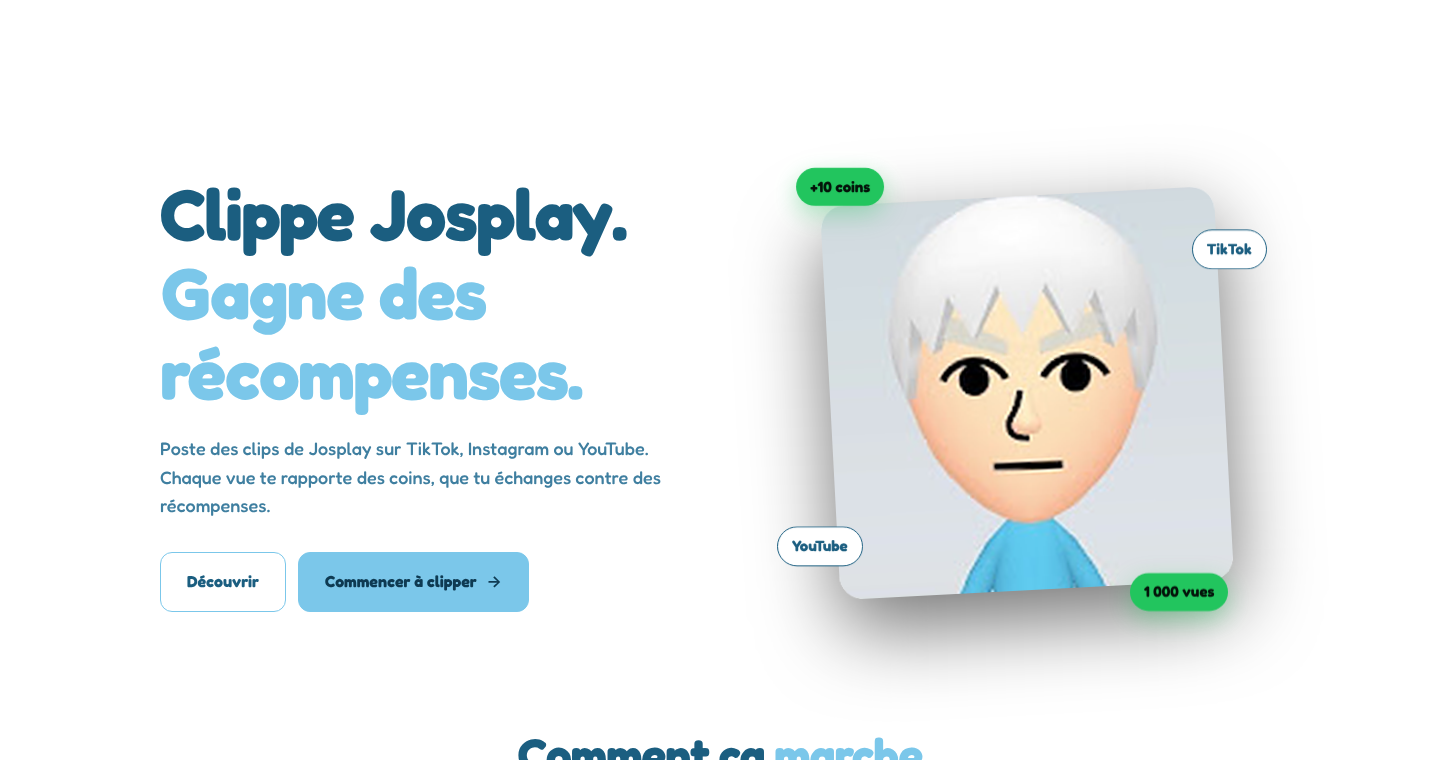
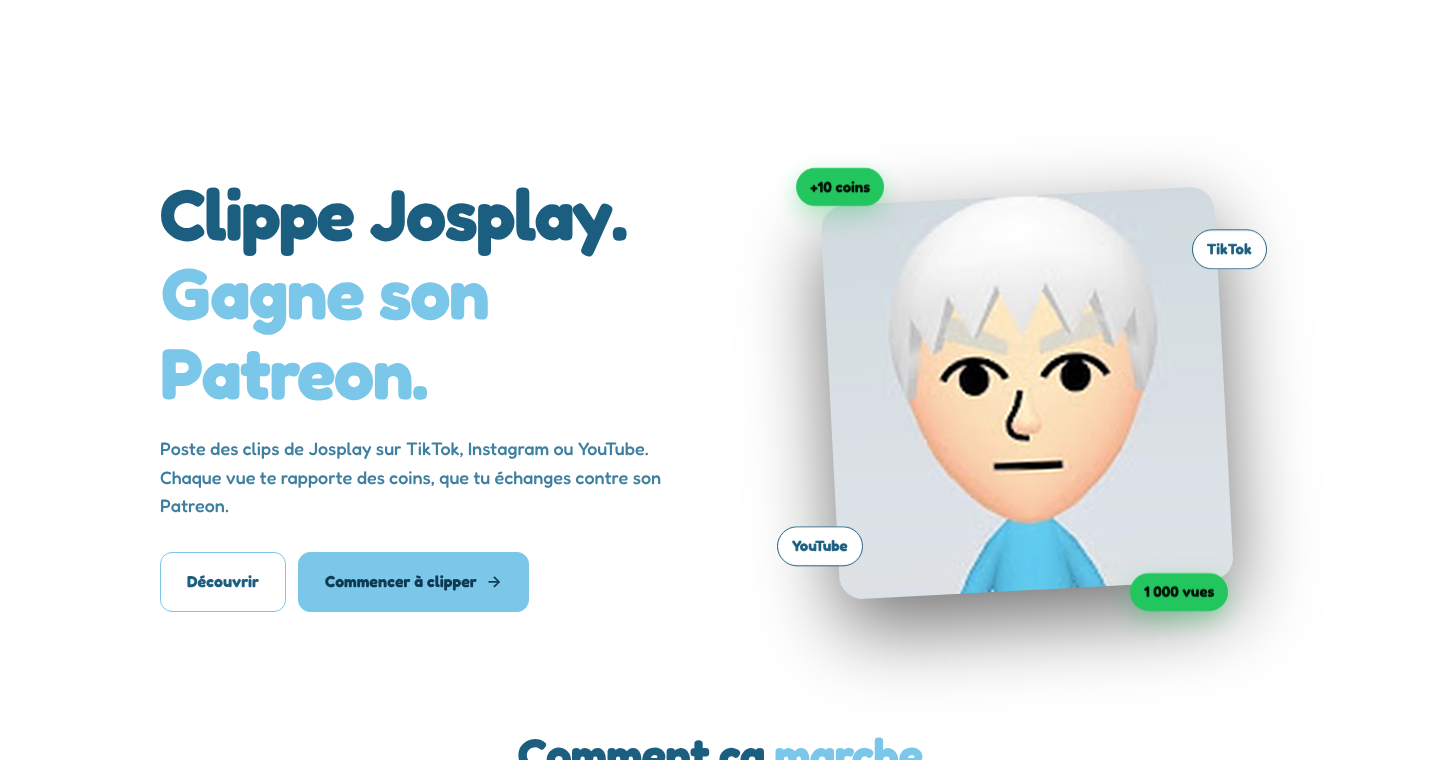
Maquette Josplay : boutique remplie (Patreon, membre YouTube, prime 1 M de vues)
Claude-Session: https://claude.ai/code/session_015AjDyzzxRyXq6uqSZmCAAf

diff --git a/maquette-josplay.html b/maquette-josplay.html
@@ -327,7 +327,7 @@
 <footer id="footer"></footer>
 <nav class="tabbar" id="tabbar"></nav>
 
-<script>window.__DEMO__ = {"creator":{"pointsPer1000":10,"levels":[{"name":"Débutant","emoji":"🌱","min":0},{"name":"Confirmé","emoji":"⚡","min":10000},{"name":"Pro","emoji":"🔥","min":100000},{"name":"Élite","emoji":"💎","min":1000000}],"statuses":{"pending":"En attente","delivered":"Livré ✅","refunded":"Remboursé"},"youtube":"","id":"josplay","programName":"JOSPLAY CLIPPING","creatorName":"Josplay","theme":"sober","colors":{"bg":"#FFFFFF","card":"#FFFFFF","border":"#7BC7EA","text":"#1B5E80","muted":"#3F7FA0","accent":"#7BC7EA","accentInk":"#0E3A52","highlight":"#7BC7EA"},"font":"Fredoka","logoText":"josplay","rewardAccount":{"kind":"email","title":"Ta récompense","label":"Ton e-mail","placeholder":"ton@email.com","badge":"E-mail relié","deliveryHint":"Ta récompense est envoyée sur cet e-mail."},"reward":null,"texts":{"heroTitle":"Clippe Josplay. **Gagne des récompenses.**","heroText":"Poste des clips de Josplay sur TikTok, Instagram ou YouTube. Chaque vue te rapporte des coins, que tu échanges contre des récompenses.","heroCta":"Commencer à clipper","steps":[{"title":"Crée ton clip","text":"Un passage de Josplay qui mérite d’être vu."},{"title":"Poste-le","text":"Sur TikTok, Instagram ou YouTube."},{"title":"Gagne des coins","text":"10 coins pour 1 000 vues, tous comptes confondus."},{"title":"Échange","text":"Tes coins contre des récompenses."}],"shopTitle":"Récompenses","shopText":"Échange tes coins contre des récompenses.","clipTitle":"Clipper","clipText":"Poste des clips de Josplay sur TikTok, Instagram ou YouTube. Tes vues sont comptées chaque nuit.","rankingText":"Les clippeurs qui ont fait le plus de vues ces 7 derniers jours.","footer":"Josplay Clipping","deliveredDm":"✅ Ta récompense **{item}** a été livrée !","dmFooter":"Josplay Clipping","faq":[{"q":"Comment je gagne des coins ?","a":"Tu postes des clips de Josplay sur TikTok, Instagram ou YouTube. 1 000 vues = 10 coins, tous comptes confondus."},{"q":"Comment je relie mes comptes ?","a":"Sur le Discord, clique sur « S’inscrire » et connecte tes comptes TikTok, Instagram et YouTube."},{"q":"Quand mes vues sont-elles comptées ?","a":"Chaque nuit. Seules les vues faites après ton inscription rapportent des coins."},{"q":"Il faut combien d’abonnés ?","a":"Aucun minimum. Un compte qui démarre peut gagner des coins dès son premier clip."}],"finalTitle":"Prêt à **clipper** ?","finalText":"Connecte-toi avec Discord, relie tes comptes et commence à gagner des coins dès ton prochain clip."},"images":{}},"programName":"JOSPLAY CLIPPING","pointsPer1000":10,"discordInviteUrl":null,"clips":[],"featured":[],"items":[],"leaderboard":[{"rank":1,"name":"kenzo.clips","avatar":null,"views":184000,"coins":1840},{"rank":2,"name":"lea_edits","avatar":null,"views":142500,"coins":1425},{"rank":3,"name":"nathan.cut","avatar":null,"views":97300,"coins":973},{"rank":4,"name":"ines.shorts","avatar":null,"views":71800,"coins":718},{"rank":5,"name":"yanis_clipz","avatar":null,"views":52400,"coins":524},{"rank":6,"name":"sarah.mp4","avatar":null,"views":38900,"coins":389},{"rank":7,"name":"tom.reels","avatar":null,"views":21600,"coins":216},{"rank":8,"name":"maelle_cut","avatar":null,"views":12300,"coins":123}]};</script>
+<script>window.__DEMO__ = {"creator":{"pointsPer1000":10,"levels":[{"name":"Débutant","emoji":"🌱","min":0},{"name":"Confirmé","emoji":"⚡","min":10000},{"name":"Pro","emoji":"🔥","min":100000},{"name":"Élite","emoji":"💎","min":1000000}],"statuses":{"pending":"En attente","delivered":"Livré ✅","refunded":"Remboursé"},"youtube":"","id":"josplay","programName":"JOSPLAY CLIPPING","creatorName":"Josplay","theme":"sober","colors":{"bg":"#FFFFFF","card":"#FFFFFF","border":"#7BC7EA","text":"#1B5E80","muted":"#3F7FA0","accent":"#7BC7EA","accentInk":"#0E3A52","highlight":"#7BC7EA"},"font":"Fredoka","logoText":"josplay","rewardAccount":{"kind":"email","title":"Ta récompense","label":"Ton e-mail","placeholder":"ton@email.com","badge":"E-mail relié","deliveryHint":"Ta récompense est envoyée sur cet e-mail."},"reward":{"name":"1 mois de Patreon","description":"Accès aux replays de Josplay sur son Patreon. Les mois s’additionnent.","price":10000,"ref":"patreon-1m","url":"#","linkLabel":"Voir le Patreon"},"texts":{"heroTitle":"Clippe Josplay. **Gagne son Patreon.**","heroText":"Poste des clips de Josplay sur TikTok, Instagram ou YouTube. Chaque vue te rapporte des coins, que tu échanges contre son Patreon.","heroCta":"Commencer à clipper","steps":[{"title":"Crée ton clip","text":"Un passage de Josplay qui mérite d’être vu."},{"title":"Poste-le","text":"Sur TikTok, Instagram ou YouTube."},{"title":"Gagne des coins","text":"10 coins pour 1 000 vues, tous comptes confondus."},{"title":"Échange","text":"Tes coins contre son Patreon."}],"shopTitle":"Récompenses","shopText":"Échange tes coins contre le Patreon, un abonnement YouTube ou une prime.","clipTitle":"Clipper","clipText":"Poste des clips de Josplay sur TikTok, Instagram ou YouTube. Tes vues sont comptées chaque nuit.","rankingText":"Les clippeurs qui ont fait le plus de vues ces 7 derniers jours.","footer":"Josplay Clipping","deliveredDm":"✅ Ta récompense **{item}** a été livrée !","dmFooter":"Josplay Clipping","faq":[{"q":"Comment je gagne des coins ?","a":"Tu postes des clips de Josplay sur TikTok, Instagram ou YouTube. 1 000 vues = 10 coins, tous comptes confondus."},{"q":"Comment je relie mes comptes ?","a":"Sur le Discord, clique sur « S’inscrire » et connecte tes comptes TikTok, Instagram et YouTube."},{"q":"Quand mes vues sont-elles comptées ?","a":"Chaque nuit. Seules les vues faites après ton inscription rapportent des coins."},{"q":"Il faut combien d’abonnés ?","a":"Aucun minimum. Un compte qui démarre peut gagner des coins dès son premier clip."}],"finalTitle":"Prêt à **clipper** ?","finalText":"Connecte-toi avec Discord, relie tes comptes et commence à gagner des coins dès ton prochain clip."},"images":{}},"programName":"JOSPLAY CLIPPING","pointsPer1000":10,"discordInviteUrl":null,"clips":[],"featured":[],"items":[{"id":1,"ref":"patreon-1m","name":"1 mois de Patreon","description":"Accès aux replays de Josplay sur son Patreon. Les mois s’additionnent.","price":10000,"stock":null,"imageUrl":null},{"id":2,"ref":"yt-member-1m","name":"1 mois de membre YouTube","description":"Un mois d’abonnement payant à la chaîne de Josplay, offert.","price":5000,"stock":null,"imageUrl":null},{"id":3,"ref":"prime-1m","name":"Prime 1 million de vues","description":"Une prime en argent quand tes clips atteignent 1 million de vues.","price":10000,"stock":null,"imageUrl":null}],"leaderboard":[{"rank":1,"name":"kenzo.clips","avatar":null,"views":184000,"coins":1840},{"rank":2,"name":"lea_edits","avatar":null,"views":142500,"coins":1425},{"rank":3,"name":"nathan.cut","avatar":null,"views":97300,"coins":973},{"rank":4,"name":"ines.shorts","avatar":null,"views":71800,"coins":718},{"rank":5,"name":"yanis_clipz","avatar":null,"views":52400,"coins":524},{"rank":6,"name":"sarah.mp4","avatar":null,"views":38900,"coins":389},{"rank":7,"name":"tom.reels","avatar":null,"views":21600,"coins":216},{"rank":8,"name":"maelle_cut","avatar":null,"views":12300,"coins":123}]};</script>
 <script>
 document.documentElement.classList.add('js');
 const $ = (s, r = document) => r.querySelector(s);

diff --git a/tracker/src/web/sober.ts b/tracker/src/web/sober.ts
@@ -19,10 +19,13 @@ export function soberPage(template: string, cr: CreatorConfig, title: string): s
     .replace('<body>', cr.theme === 'pop' ? `<body class="pop${cr.style === 'sticker' ? ' sticker' : ''}">` : '<body>');
 }
 
+/** Objet de boutique en plus de la récompense principale (maquettes). */
+type DemoItem = { ref: string; name: string; description: string; price: number };
+
 const DEMO_NAMES = ['kenzo.clips', 'lea_edits', 'nathan.cut', 'ines.shorts', 'yanis_clipz', 'sarah.mp4', 'tom.reels', 'maelle_cut'];
 
 /** Données d'exemple d'une maquette prospect (même forme que /api/fan/public). */
-export function demoPublic(cr: CreatorConfig, rewardImage: string) {
+export function demoPublic(cr: CreatorConfig, rewardImage: string, extra: DemoItem[] = []) {
   const views = [184_000, 142_500, 97_300, 71_800, 52_400, 38_900, 21_600, 12_300];
   return {
     creator: cr,
@@ -31,7 +34,10 @@ export function demoPublic(cr: CreatorConfig, rewardImage: string) {
     discordInviteUrl: null,
     clips: [],
     featured: [],
-    items: cr.reward ? [{ id: 1, ref: cr.reward.ref, name: cr.reward.name, description: cr.reward.description, price: cr.reward.price, stock: null, imageUrl: rewardImage || null }] : [],
+    items: [
+      ...(cr.reward ? [{ id: 1, ref: cr.reward.ref, name: cr.reward.name, description: cr.reward.description, price: cr.reward.price, stock: null, imageUrl: rewardImage || null }] : []),
+      ...extra.map((it, i) => ({ id: i + 2, ...it, stock: null, imageUrl: null })),
+    ],
     leaderboard: DEMO_NAMES.map((name, i) => ({ rank: i + 1, name, avatar: null, views: views[i]!, coins: Math.floor((views[i]! / 1000) * cr.pointsPer1000) })),
   };
 }
@@ -44,7 +50,7 @@ export function demoPage(template: string, slug: string, url: (file: string) => 
   if (!p) return undefined;
   const a = (f: string | undefined) => (f ? url(f) : '');
   const cr: CreatorConfig = { ...p.config, images: { banner: p.banner, reward: p.config.style === 'sticker' ? p.reward : undefined } };
-  const data = JSON.stringify(demoPublic(cr, a(p.reward))).replace(/</g, '\\u003c');
+  const data = JSON.stringify(demoPublic(cr, a(p.reward), p.items)).replace(/</g, '\\u003c');
   return soberPage(template, cr, cr.programName)
     .replaceAll('/fan/assets/creator.png', a(p.photo))
     .replaceAll('/fan/assets/hero-banner', a(p.banner))

diff --git a/tracker/src/creators/prospects.ts b/tracker/src/creators/prospects.ts
@@ -10,6 +10,8 @@ export interface Prospect {
   photo: string;
   banner?: string;
   reward?: string;
+  /** Autres objets de la boutique (en plus de config.reward). */
+  items?: { ref: string; name: string; description: string; price: number }[];
 }
 
 const LEVELS = [
@@ -96,6 +98,11 @@ export const PROSPECTS: Record<string, Prospect> = {
   },
   josplay: {
     photo: 'josplay-pdp.png',
+    // Pistes de récompenses (pas encore fixées avec Josplay)
+    items: [
+      { ref: 'yt-member-1m', name: '1 mois de membre YouTube', description: 'Un mois d’abonnement payant à la chaîne de Josplay, offert.', price: 5_000 },
+      { ref: 'prime-1m', name: 'Prime 1 million de vues', description: 'Une prime en argent quand tes clips atteignent 1 million de vues.', price: 10_000 },
+    ],
     config: {
       ...base,
       id: 'josplay',
@@ -107,8 +114,8 @@ export const PROSPECTS: Record<string, Prospect> = {
       font: 'Fredoka',
       logoText: 'josplay',
       rewardAccount: EMAIL('Ta récompense', 'Ta récompense est envoyée sur cet e-mail.'),
-      reward: null,
-      texts: texts('Josplay', 'des récompenses'),
+      reward: { name: '1 mois de Patreon', description: 'Accès aux replays de Josplay sur son Patreon. Les mois s’additionnent.', price: 10_000, ref: 'patreon-1m', url: '#', linkLabel: 'Voir le Patreon' },
+      texts: texts('Josplay', 'son Patreon', { shopText: 'Échange tes coins contre le Patreon, un abonnement YouTube ou une prime.' }),
     },
   },
 };
